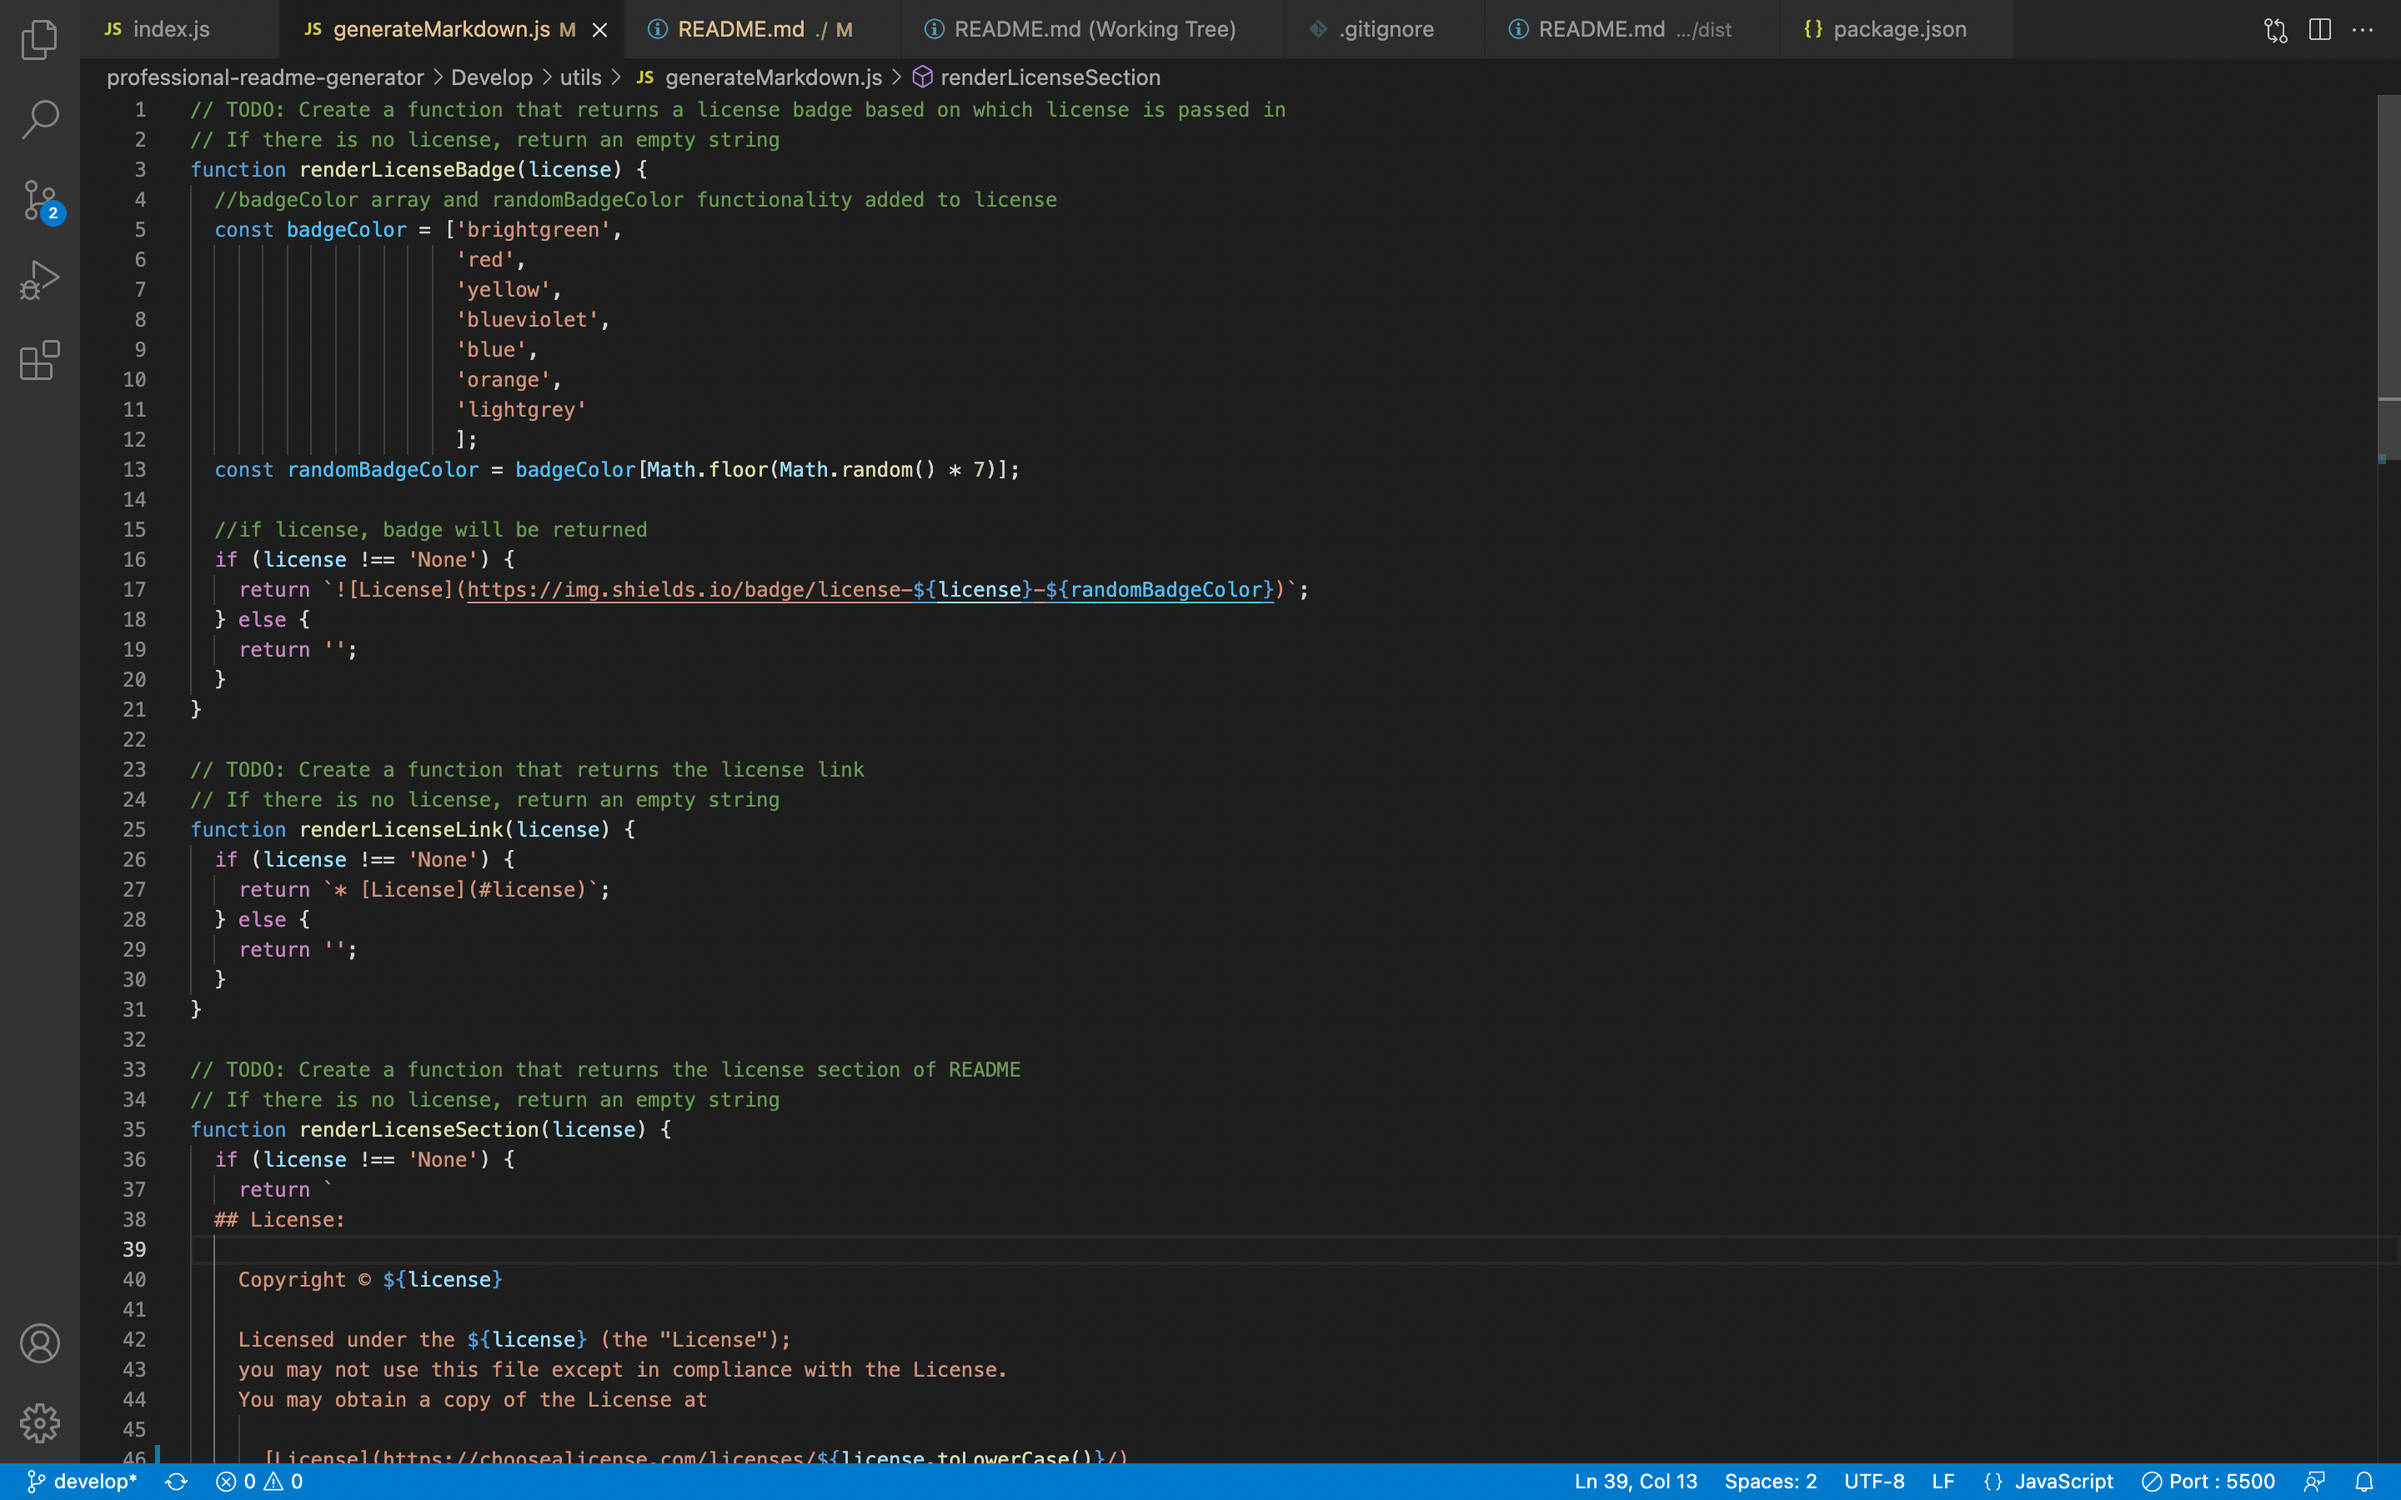
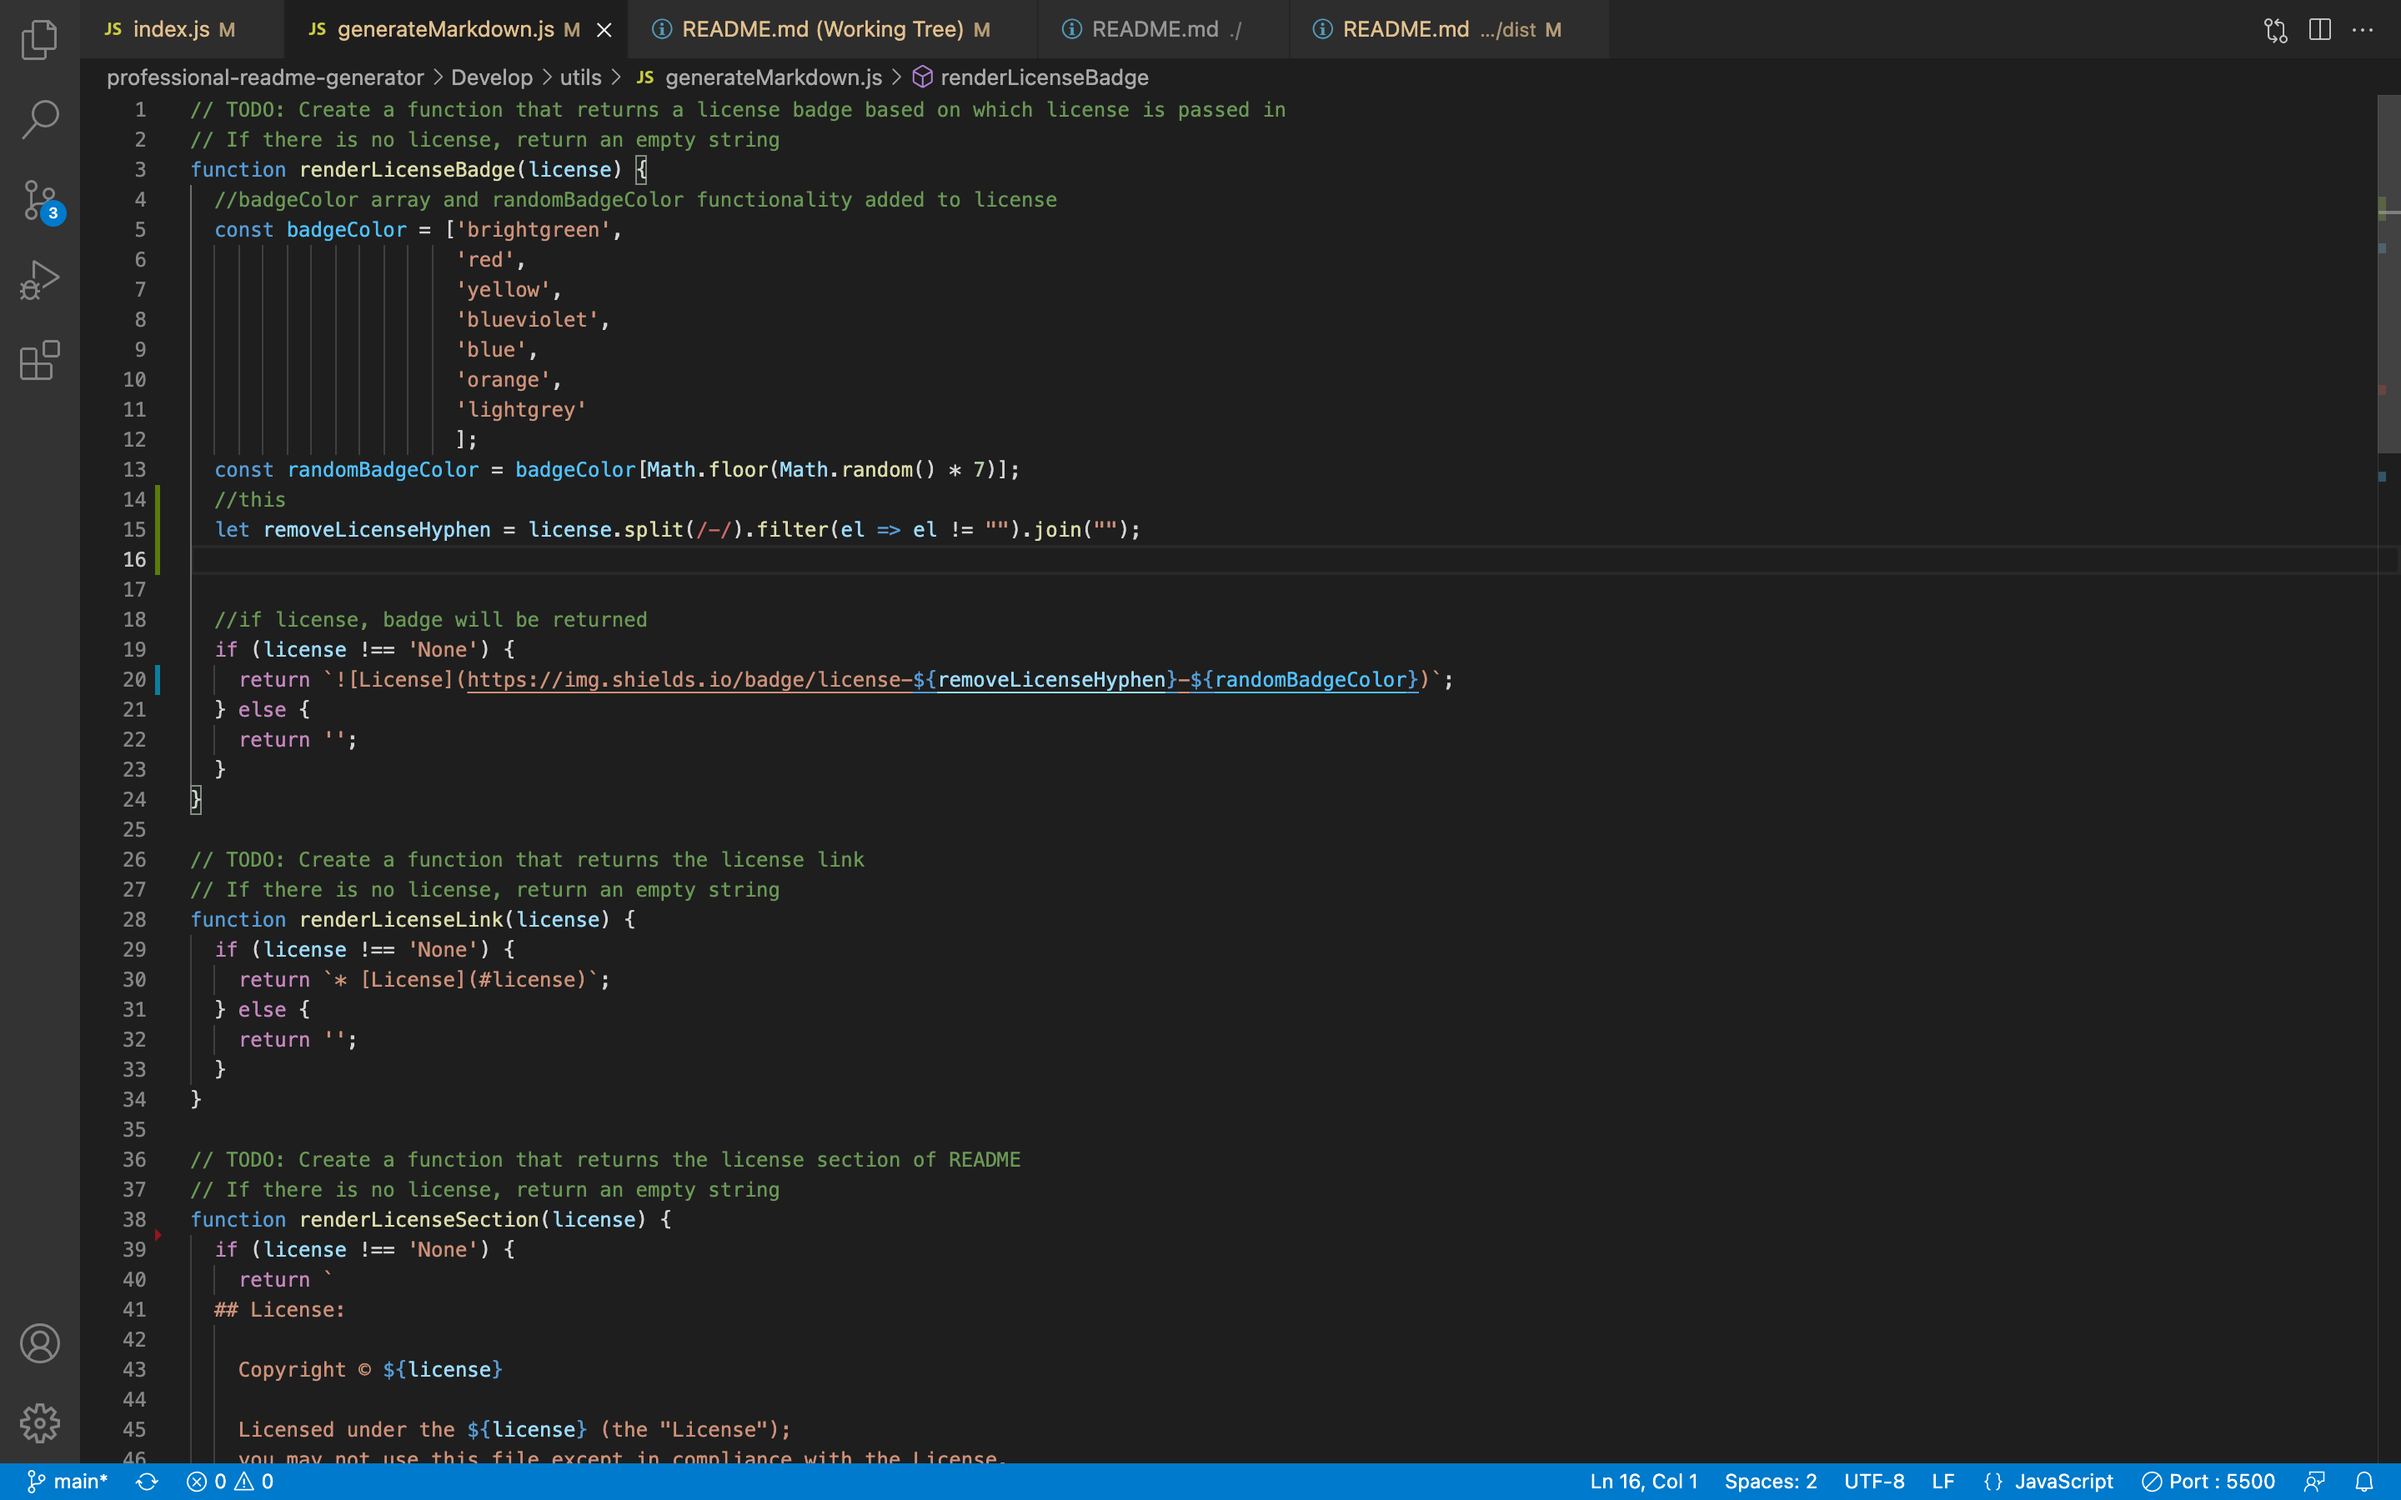
added let removeLicenseHyphen

diff --git a/Develop/utils/generateMarkdown.js b/Develop/utils/generateMarkdown.js
@@ -11,10 +11,13 @@ function renderLicenseBadge(license) {
                       'lightgrey'
                       ];
   const randomBadgeColor = badgeColor[Math.floor(Math.random() * 7)];
+  //this 
+  let removeLicenseHyphen = license.split(/-/).filter(el => el != "").join("");
+
   
   //if license, badge will be returned
   if (license !== 'None') {
-    return `![License](https://img.shields.io/badge/license-${license}-${randomBadgeColor})`;
+    return `![License](https://img.shields.io/badge/license-${removeLicenseHyphen}-${randomBadgeColor})`;
   } else {
     return '';
   }
@@ -33,7 +36,6 @@ function renderLicenseLink(license) {
 // TODO: Create a function that returns the license section of README
 // If there is no license, return an empty string
 function renderLicenseSection(license) {
-  let stringsAndNumbers = license.split(/(\d+)/).filter(el => el != "").join("-");
   if (license !== 'None') {
     return `
   ## License:
@@ -44,7 +46,7 @@ function renderLicenseSection(license) {
     you may not use this file except in compliance with the License.
     You may obtain a copy of the License at
     
-      https://choosealicense.com/licenses/${stringsAndNumbers.toLowerCase()}/
+      https://choosealicense.com/licenses/${license.toLowerCase()}/
     
     Unless required by applicable law or agreed to in writing, software
     distributed under the License is distributed on an "AS IS" BASIS,

diff --git a/Develop/index.js b/Develop/index.js
@@ -60,7 +60,7 @@ const userQuestions = [
             type: 'list',
             name: 'license',
             message: 'What license did you use?',
-            choices: ['AGPL3.0','MIT','MPL2.0','Apache2.0','BSL1.0','None']
+            choices: ['AGPL-3.0','MIT','MPL-2.0','Apache-2.0','BSL-1.0','None']
         },
         {
             type: 'input',

diff --git a/Develop/dist/README.md b/Develop/dist/README.md
@@ -1,7 +1,7 @@
 
   
-  # adgsfdg
-  ![License](https://img.shields.io/badge/license-MPL2.0-red)
+  # agafg
+  ![License](https://img.shields.io/badge/license-Apache2.0-brightgreen)
 
   # Table of Contents
   * [Description](#description)
@@ -15,7 +15,7 @@
   
   ## Description:
   
-  gdhghd
+  sfgsfdg
   
   ## Installation:
 
@@ -42,13 +42,13 @@
   
   ## License:
             
-    Copyright © MPL2.0
+    Copyright © Apache-2.0
 
-    Licensed under the MPL2.0 (the "License");
+    Licensed under the Apache-2.0 (the "License");
     you may not use this file except in compliance with the License.
     You may obtain a copy of the License at
     
-      https://choosealicense.com/licenses/mpl-2-.-0/
+      https://choosealicense.com/licenses/apache-2.0/
     
     Unless required by applicable law or agreed to in writing, software
     distributed under the License is distributed on an "AS IS" BASIS,
@@ -61,12 +61,12 @@
 
   Listed is my GitHub Username and Profile:
   
-  djdfghj
+  sdfg
 
-  djdf
+  sfdg
   
   If you have additional questions, you can reach me at:
   
-  gfjh
+  sfg
     
   
